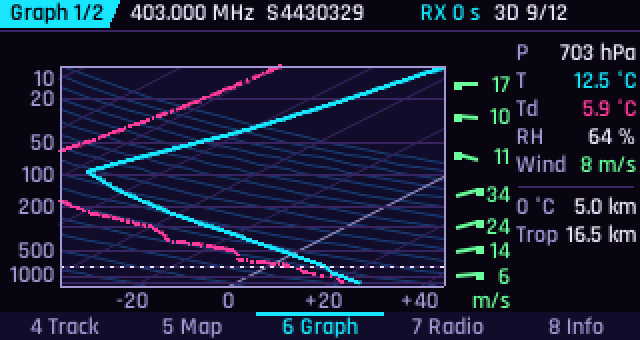
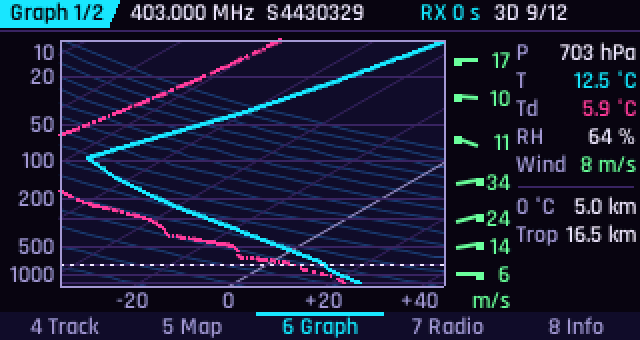
fix: keep two-digit GPS counts on one line and use the room above the Skew-T
The top bar GPS label (3D 15/19) wrapped onto a second line once ten or
more satellites were used; the box now grows to the left and the receiver
state moves with it. The Skew-T plot starts under the top bar instead of
leaving 13 px empty; the isotherm lean stays at 110 px per decade so the
cold stratosphere stays on the diagram.

Claude-Session: https://claude.ai/code/session_01NC5LhUc5V3FGkxE6anuYHf

Changed region(s): [[0.0312, 0.1176, 0.8125, 0.8529]]

diff --git a/src/ui_draw.c b/src/ui_draw.c
@@ -207,24 +207,35 @@ void top_bar(const char *name, uint32_t chip, const char *mid)
     if (mid) txt(cw + 4, 0, 194, F_S, C_TX, AL_L, "%s", mid);
     else if (A->freq_hz > 0)
         txt(cw + 4, 0, 150, F_S, C_TX, AL_L, "%.3f MHz  %s", A->freq_hz / 1e6, A->have_sonde ? A->sonde.id : "");
+    /* GPS: satellites used / in view with a fix, or why there is none on red. Two-digit counts ("3D 15/19") are
+     * wider than the usual box, so it grows to the left and the receiver state moves with it instead of the
+     * text wrapping onto a second line. */
+    char gps[24];
+    int fix = gps_ok(&A->gps, now), gw, gx, sx;
+    if (fix && gps_sky(&A->gps, now)) snprintf(gps, sizeof gps, "%dD %d/%d", A->gps.mode, A->gps.n_used, A->gps.n_sat);
+    else if (fix) snprintf(gps, sizeof gps, "%s", A->gps.mode == 3 ? "GPS 3D" : "GPS 2D");
+    else if (gps_sky(&A->gps, now)) /* receiver plugged in, no fix yet */
+        snprintf(gps, sizeof gps, "GPS %d/%d", A->gps.n_used, A->gps.n_sat);
+    else snprintf(gps, sizeof gps, "%s", A->gps.t_fix > 0 ? "GPS lost" : "No GPS");
+    gw = text_w(F_S, gps) + (fix ? 2 : 6);
+    if (gw < (fix ? 40 : 42)) gw = fix ? 40 : 42;
+    gx = (fix ? 284 : 285) - gw;
+    sx = gx - 4 < 240 ? gx - 4 - 44 : 196; /* right edge of the state text */
     if (A->state == ST_DECODE && A->have_sonde) {
-        if (fresh()) txt(196, 0, 44, F_S, C_CY, AL_R, "RX %.0f s", now - A->sonde.t_rx);
-        else txt(196, 0, 44, F_S, C_RD, AL_R, "RX lost");
+        if (fresh()) txt(sx, 0, 44, F_S, C_CY, AL_R, "RX %.0f s", now - A->sonde.t_rx);
+        else txt(sx, 0, 44, F_S, C_RD, AL_R, "RX lost");
     } else if (A->state == ST_SCAN) { /* what the receiver does, on every screen; the Radio screen does not repeat it */
-        txt(196, 0, 44, F_S, C_YL, AL_R, "scan");
+        txt(sx, 0, 44, F_S, C_YL, AL_R, "scan");
     } else if (A->state == ST_LISTEN) {
-        txt(196, 0, 44, F_S, C_YL, AL_R, "listen");
+        txt(sx, 0, 44, F_S, C_YL, AL_R, "listen");
     } else if (A->state == ST_DECODE) {
-        txt(196, 0, 44, F_S, C_YL, AL_R, A->hunt ? "try" : "decode");
+        txt(sx, 0, 44, F_S, C_YL, AL_R, A->hunt ? "try" : "decode");
     }
-    if (gps_ok(&A->gps, now)) {
-        if (gps_sky(&A->gps, now)) txt(244, 0, 40, F_S, C_TX, AL_R, "%dD %d/%d", A->gps.mode, A->gps.n_used, A->gps.n_sat);
-        else txt(244, 0, 40, F_S, C_TX, AL_R, A->gps.mode == 3 ? "GPS 3D" : "GPS 2D");
+    if (fix) {
+        txt(gx, 0, gw, F_S, C_TX, AL_R, "%s", gps);
     } else { /* decoding continues; only distance, bearing and the beeper need this fix */
-        fill(243, 1, 42, 13, C_RD);
-        if (gps_sky(&A->gps, now)) /* receiver plugged in, no fix yet: satellites used / in view */
-            txt(243, 0, 42, F_S, C_G, AL_C, "GPS %d/%d", A->gps.n_used, A->gps.n_sat);
-        else txt(243, 0, 42, F_S, C_G, AL_C, A->gps.t_fix > 0 ? "GPS lost" : "No GPS");
+        fill(gx, 1, gw, 13, C_RD);
+        txt(gx, 0, gw, F_S, C_G, AL_C, "%s", gps);
     }
     if (A->prox.muted) txt(286, 0, 30, F_S, C_RD, AL_R, "mute");
     else if (batt_pct >= 0) txt(286, 0, 30, F_S, C_DIM, AL_R, "%d%%", batt_pct);

diff --git a/src/ui_graph.c b/src/ui_graph.c
@@ -6,7 +6,10 @@
 #define SK_X0 30
 #define SK_X1 222
 #define SK_YB 143
-#define SK_YT 33
+#define SK_YT 20
+/* Isotherm lean per decade of pressure, in pixels. Fixed rather than the plot height, so a taller plot spreads
+ * the pressure axis without pushing the cold stratosphere (-50 °C at 10 hPa) off the right edge. */
+#define SK_SKEW 110.0
 /* Top of the pressure axis: 100 hPa, or 10 hPa (about 31 km) once the flight has been above 100 hPa. A sonde is
  * often first heard high up, and with a fixed 100 hPa top its whole profile would lie above the diagram. */
 static double sk_top = 100.0;
@@ -18,13 +21,13 @@ static double sk_y(double p)
     return SK_YB - log(1050.0 / p) / log(1050.0 / sk_top) * (SK_YB - SK_YT);
 }
 
-/* Isotherms lean by the same temperature per unit of ln(p) whatever the axis' top: 45° on the 1050-100 hPa
+/* Isotherms lean by the same temperature per unit of ln(p) whatever the axis' top: about 42° on the 1050-100 hPa
  * diagram. Tied to pixels instead, a stretched axis would lean less and the cold upper air slide off the left. */
 static double sk_x(double t, double p)
 {
     if (p < sk_top) p = sk_top;
     if (p > 1050) p = 1050;
-    return SK_X0 + (t + 35.0) * (SK_X1 - SK_X0) / 80.0 + log(1050.0 / p) / log(10.5) * (SK_YB - SK_YT);
+    return SK_X0 + (t + 35.0) * (SK_X1 - SK_X0) / 80.0 + log(1050.0 / p) / log(10.5) * SK_SKEW;
 }
 
 static void sk_ln(double t1, double p1, double t2, double p2, uint32_t col, int w)
@@ -96,7 +99,8 @@ void p_skewt(void)
     ln(SK_X1, SK_YB, SK_X0, SK_YB, C_DIM, 1);
     ln(SK_X0, SK_YB, SK_X0, SK_YT, C_DIM, 1);
     for (i = 0; i < nlab; i++) /* 850 hPa has a grid line but no label: it would collide with 700 and 1000 */
-        txt(0, (int)sk_y(lab[i]) - (i == 0 ? 10 : (lab[i] == 10 ? 0 : 6)), SK_X0 - 3, F_S, C_DIM, AL_R, "%d", lab[i]);
+        txt(0, (int)sk_y(lab[i]) - (i == 0 ? 10 : (lab[i] == (int)sk_top ? 0 : 6)), SK_X0 - 3, F_S, C_DIM, AL_R, "%d",
+            lab[i]); /* the top one hangs below its line, clear of the top bar */
     for (t = -20; t <= 40; t += 20) txt((int)sk_x(t, 1050) - 12, 144, 24, F_S, C_DIM, AL_C, t ? "%+d" : "%d", t);
     txt(226, 144, 29, F_S, C_GN, AL_R, "m/s");
 
